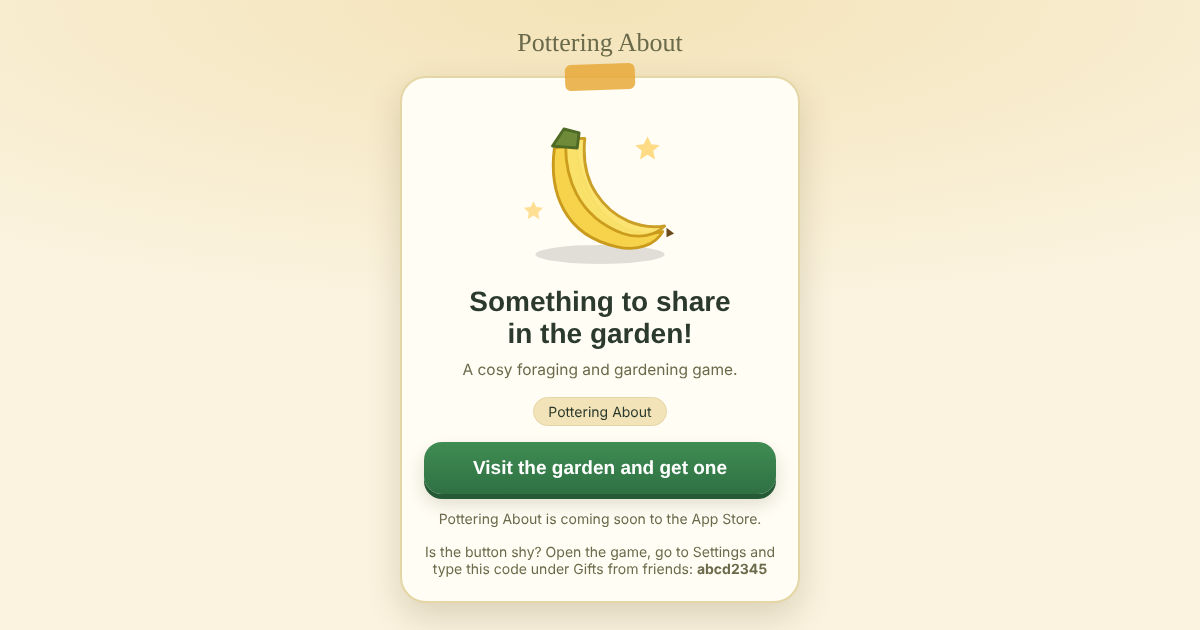
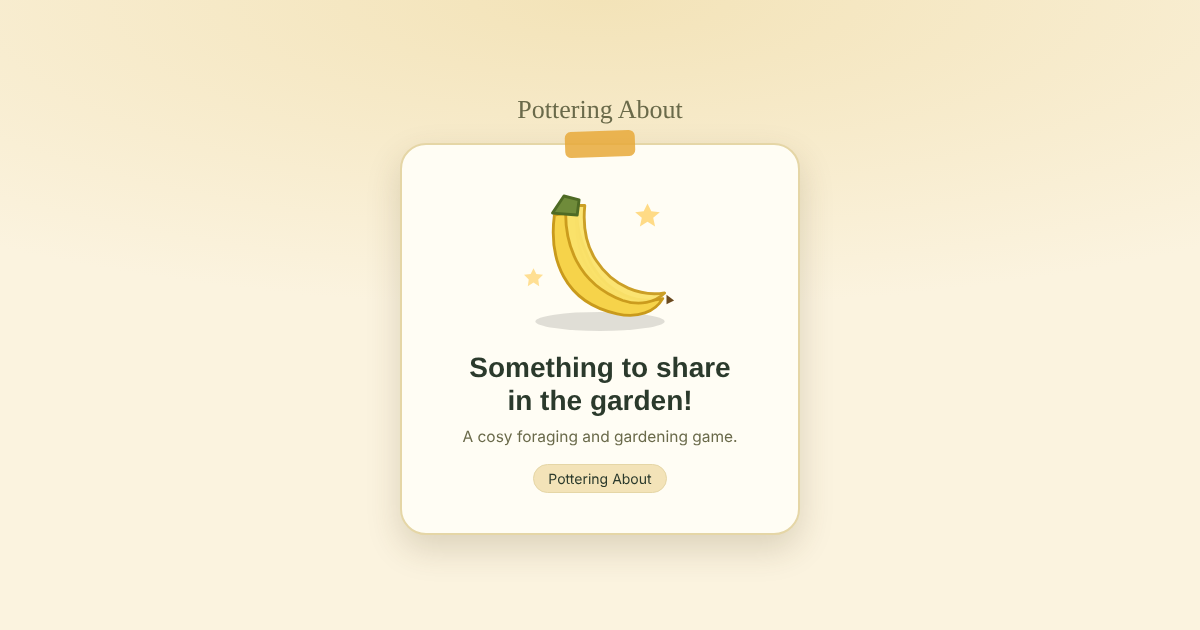
Add files via upload

Changed region(s): [[0.3083, 0.0603, 0.6783, 0.9952]]

diff --git a/gift.js b/gift.js
@@ -1,0 +1,25 @@
+// Builds the gift page with this gift's own preview card, so Facebook, WhatsApp and Reddit show the real item.
+const SB = 'https://sqgfrtgjqowuvvlrhhjp.supabase.co';
+const KEY = 'sb_publishable_LyIEQVIcTaxuAJ1I4THZyg_ZJqxtA-p';
+const TEMPLATE = "<!doctype html>\n<html lang=\"en\"><head><meta charset=\"utf-8\"><meta name=\"viewport\" content=\"width=device-width,initial-scale=1,viewport-fit=cover\">\n<title>A gift from the garden | Pottering About</title>\n<meta name=\"description\" content=\"A friend has something to share in Pottering About, a cosy foraging and gardening game. Tap to pick one up.\">\n<meta property=\"og:title\" content=\"A friend has something to share in Pottering About\"><meta property=\"og:description\" content=\"Tap to visit the garden and pick up a gift.\">\n<meta property=\"og:image\" content=\"https://garden.auridonyarns.com/og.png\"><meta property=\"og:type\" content=\"website\"><meta name=\"twitter:card\" content=\"summary_large_image\">\n<link rel=\"stylesheet\" href=\"https://fonts.googleapis.com/css2?family=Baloo+2:wght@500;700&family=Caveat:wght@600&family=Mali:wght@400;600&display=swap\">\n<style>\n:root{--bg:#fbf3df;--bg2:#f3e3b8;--card:#fffdf4;--ink:#2b3a2c;--sub:#6a6a4a;--leaf:#3f8d53;--leaf2:#2f7043;--gold:#e8a93a;--line:#e5d6a6;--shadow:rgba(80,60,20,.18)}\n@media (prefers-color-scheme:dark){:root:not([data-theme=\"light\"]){--bg:#0e231a;--bg2:#143327;--card:#183a2c;--ink:#fbf3df;--sub:#b9c9a8;--leaf:#5fb374;--leaf2:#3f8d53;--gold:#ffd77a;--line:#2d5a43;--shadow:rgba(0,0,0,.4);color-scheme:dark}}\n:root[data-theme=\"dark\"]{--bg:#0e231a;--bg2:#143327;--card:#183a2c;--ink:#fbf3df;--sub:#b9c9a8;--leaf:#5fb374;--leaf2:#3f8d53;--gold:#ffd77a;--line:#2d5a43;--shadow:rgba(0,0,0,.4);color-scheme:dark}\n*{box-sizing:border-box}\n.cardimg{width:100%;border-radius:14px;display:block;margin:4px 0 10px}\n[hidden]{display:none!important}\nbody{margin:0;min-height:100vh;background:radial-gradient(120% 70% at 50% 0%,var(--bg2),var(--bg) 70%);color:var(--ink);font-family:'Mali',system-ui,sans-serif;padding-block:28px;padding-left:max(16px,env(safe-area-inset-left,0px));padding-right:max(16px,env(safe-area-inset-right,0px));display:flex;flex-direction:column;align-items:center;gap:18px}\n.brand{font-family:'Caveat',cursive;font-size:26px;color:var(--sub)}\n.card{width:100%;max-width:400px;background:var(--card);border:2px solid var(--line);border-radius:26px;box-shadow:0 14px 34px var(--shadow);padding:26px 22px 24px;text-align:center;position:relative}\n.card:before{content:\"\";position:absolute;left:50%;top:-14px;width:70px;height:26px;background:var(--gold);border-radius:6px;transform:translateX(-50%) rotate(-2deg);opacity:.85}\n.pic{margin:6px auto 4px;width:190px;max-width:70%}\nh1{font-family:'Baloo 2',sans-serif;font-weight:700;font-size:28px;line-height:1.15;margin:6px 0 8px;text-wrap:balance}\np{margin:0 0 6px;line-height:1.5;color:var(--sub);font-size:15.5px}\n.count{display:inline-block;margin:10px 0 16px;padding:5px 14px;border-radius:99px;background:var(--bg2);border:1px solid var(--line);font-size:14px;color:var(--ink)}\n.go{display:block;width:100%;border:0;border-radius:18px;padding:15px 18px;font-family:'Baloo 2',sans-serif;font-weight:700;font-size:19px;color:#fff;background:linear-gradient(var(--leaf),var(--leaf2));box-shadow:0 5px 0 #265a36,0 10px 18px var(--shadow);text-decoration:none;cursor:pointer}\n.go:active{transform:translateY(3px);box-shadow:0 2px 0 #265a36}\n.store{display:block;margin-top:16px;font-size:14px;color:var(--sub)}\n.store a{color:var(--leaf2);font-weight:600}\n@media (prefers-color-scheme:dark){:root:not([data-theme=\"light\"]) .store a{color:var(--gold)}}\n.fine{max-width:400px;text-align:center;font-size:12.5px;color:var(--sub);opacity:.85}\n</style></head><body>\n<div class=\"brand\">Pottering About</div>\n<main class=\"card\">\n  <svg class=\"pic\" viewBox=\"0 0 200 170\" role=\"img\" aria-label=\"A bunch of bananas\">\n    <ellipse cx=\"100\" cy=\"152\" rx=\"68\" ry=\"10\" fill=\"#000\" opacity=\".12\"/>\n    <path d=\"M52 40c-6 46 10 92 66 104 22 5 40-2 48-16-26 6-56-4-74-34C80 70 74 52 76 36z\" fill=\"#f6d34a\" stroke=\"#c99a1c\" stroke-width=\"3\" stroke-linejoin=\"round\"/>\n    <path d=\"M76 36c-4 40 10 78 56 96\" fill=\"none\" stroke=\"#e1b42b\" stroke-width=\"3\" stroke-linecap=\"round\"/>\n    <path d=\"M64 30c-2 40 12 82 60 100 18 6 34 2 44-8-24 4-54-6-72-34-12-18-14-38-12-58z\" fill=\"#fbe36c\" stroke=\"#c99a1c\" stroke-width=\"3\" stroke-linejoin=\"round\" opacity=\".95\"/>\n    <path d=\"M50 38l12-18 16 4-2 16z\" fill=\"#6f8b3a\" stroke=\"#4e6a24\" stroke-width=\"3\" stroke-linejoin=\"round\"/>\n    <path d=\"M170 124l8 6-8 4z\" fill=\"#6b4a1e\"/>\n    <path d=\"M150 28l4 8 9 1-7 6 2 9-8-5-8 5 2-9-7-6 9-1z\" fill=\"#ffd77a\" opacity=\".9\"/>\n    <path d=\"M30 96l3 6 7 1-5 5 1 7-6-4-6 4 1-7-5-5 7-1z\" fill=\"#ffd77a\" opacity=\".8\"/>\n  </svg>\n  <h1 id=\"h\">A gift from the garden</h1>\n  <p id=\"p\">A friend has something to share. Come and see their garden.</p>\n  <div class=\"count\" id=\"c\">Checking the basket...</div>\n  <a class=\"go\" id=\"go\" href=\"potteringabout://gift\">Visit the garden</a>\n  <span class=\"store\" id=\"store\"></span>\n  <span class=\"store\">Is the button shy? Open the game, go to Settings and type this code under Gifts from friends: <b id=\"code\">-</b></span>\n</main>\n<div class=\"fine\">A cosy foraging and gardening game by Auridon Yarns. One gift per gardener, while the basket lasts.</div>\n<script>\nvar SB_URL='https://sqgfrtgjqowuvvlrhhjp.supabase.co', SB_KEY='sb_publishable_LyIEQVIcTaxuAJ1I4THZyg_ZJqxtA-p';\nvar APP_STORE_URL=''; // fill in once the app is public on the App Store\nvar code=((/[?&]g=([a-z0-9]{6,12})/i.exec(location.search)||[])[1]||'').toLowerCase();\nvar $=function(i){return document.getElementById(i)};\nfunction t(e,s){e.textContent=s}\nif(APP_STORE_URL){$('store').innerHTML='Do not have the game yet? <a href=\"'+APP_STORE_URL+'\">Get it free on the App Store</a>'}else{t($('store'),'Pottering About is coming soon to the App Store.')}\nif(!code){t($('h'),'Pottering About');t($('p'),'A cosy foraging and gardening game. Ask a friend for a gift link.');$('c').hidden=true;$('go').hidden=true;document.querySelector('.store:last-child').hidden=true}\nelse{\n  t($('code'),code);$('go').href='potteringabout://gift?g='+code;\n  var im=new Image();im.alt='';im.className='cardimg';im.onload=function(){var v=document.querySelector('svg.pic');if(v)v.replaceWith(im)};im.src=SB_URL+'/storage/v1/object/public/gift-img/'+code+'.jpg';\n  fetch(SB_URL+'/rest/v1/rpc/pa_gift_get',{method:'POST',headers:{apikey:SB_KEY,Authorization:'Bearer '+SB_KEY,'Content-Type':'application/json'},body:JSON.stringify({p_code:code})})\n   .then(function(r){return r.json()}).then(function(g){\n     if(!g){t($('h'),'This gift has gone stale');t($('p'),'The link does not seem to exist any more.');$('c').hidden=true;$('go').hidden=true;return}\n     var item=String(g.item).toLowerCase(), n=+g.left||0, nm=String(g.name);\n     t($('h'),nm+' has something to share!');t($('p'),'Come and visit '+nm+'\\'s garden and pick up a gift: '+item+'.');\n     t($('c'),n>0?n+(n===1?' left':' left')+' in the basket':'The basket is empty, sorry!');\n     t($('go'),n>0?'Visit the garden and get one':'Visit the garden anyway');\n   }).catch(function(){t($('c'),'Could not check the basket right now')});\n}\n$('go').addEventListener('click',function(){\n  if(!APP_STORE_URL)return; var gone=false; document.addEventListener('visibilitychange',function(){gone=true});\n  setTimeout(function(){if(!gone&&!document.hidden)location.href=APP_STORE_URL},1600);\n});\n</script></body></html>\n";
+const esc = (s) => String(s).replace(/[&<>"']/g, (c) => ({ '&': '&amp;', '<': '&lt;', '>': '&gt;', '"': '&quot;', "'": '&#39;' }[c]));
+exports.handler = async (event) => {
+  const code = String((event.queryStringParameters || {}).g || '').toLowerCase().replace(/[^a-z0-9]/g, '').slice(0, 12);
+  let html = TEMPLATE;
+  if (code.length >= 6) {
+    try {
+      const r = await fetch(SB + '/rest/v1/rpc/pa_gift_get', { method: 'POST', headers: { apikey: KEY, Authorization: 'Bearer ' + KEY, 'Content-Type': 'application/json' }, body: JSON.stringify({ p_code: code }) });
+      const g = await r.json();
+      if (g && g.item) {
+        const title = g.name + ' is sharing ' + g.item + ' in Pottering About!';
+        const img = SB + '/storage/v1/object/public/gift-img/' + code + '.jpg';
+        html = html
+          .replace(/(<meta property="og:title" content=")[^"]*"/, '$1' + esc(title) + '"')
+          .replace(/(<meta property="og:description" content=")[^"]*"/, '$1' + esc('Tap to visit the garden and pick up a gift.') + '"')
+          .replace(/(<meta property="og:image" content=")[^"]*"/, '$1' + img + '"')
+          .replace(/<title>[^<]*<\/title>/, '<title>' + esc(title) + '</title>');
+      }
+    } catch (e) { /* fall back to the generic page */ }
+  }
+  return { statusCode: 200, headers: { 'Content-Type': 'text/html; charset=utf-8', 'Cache-Control': 'public, max-age=120' }, body: html };
+};

diff --git a/index.html b/index.html
@@ -10,6 +10,8 @@
 @media (prefers-color-scheme:dark){:root:not([data-theme="light"]){--bg:#0e231a;--bg2:#143327;--card:#183a2c;--ink:#fbf3df;--sub:#b9c9a8;--leaf:#5fb374;--leaf2:#3f8d53;--gold:#ffd77a;--line:#2d5a43;--shadow:rgba(0,0,0,.4);color-scheme:dark}}
 :root[data-theme="dark"]{--bg:#0e231a;--bg2:#143327;--card:#183a2c;--ink:#fbf3df;--sub:#b9c9a8;--leaf:#5fb374;--leaf2:#3f8d53;--gold:#ffd77a;--line:#2d5a43;--shadow:rgba(0,0,0,.4);color-scheme:dark}
 *{box-sizing:border-box}
+.cardimg{width:100%;border-radius:14px;display:block;margin:4px 0 10px}
+[hidden]{display:none!important}
 body{margin:0;min-height:100vh;background:radial-gradient(120% 70% at 50% 0%,var(--bg2),var(--bg) 70%);color:var(--ink);font-family:'Mali',system-ui,sans-serif;padding-block:28px;padding-left:max(16px,env(safe-area-inset-left,0px));padding-right:max(16px,env(safe-area-inset-right,0px));display:flex;flex-direction:column;align-items:center;gap:18px}
 .brand{font-family:'Caveat',cursive;font-size:26px;color:var(--sub)}
 .card{width:100%;max-width:400px;background:var(--card);border:2px solid var(--line);border-radius:26px;box-shadow:0 14px 34px var(--shadow);padding:26px 22px 24px;text-align:center;position:relative}
@@ -55,6 +57,7 @@ if(APP_STORE_URL){$('store').innerHTML='Do not have the game yet? <a href="'+APP
 if(!code){t($('h'),'Pottering About');t($('p'),'A cosy foraging and gardening game. Ask a friend for a gift link.');$('c').hidden=true;$('go').hidden=true;document.querySelector('.store:last-child').hidden=true}
 else{
   t($('code'),code);$('go').href='potteringabout://gift?g='+code;
+  var im=new Image();im.alt='';im.className='cardimg';im.onload=function(){var v=document.querySelector('svg.pic');if(v)v.replaceWith(im)};im.src=SB_URL+'/storage/v1/object/public/gift-img/'+code+'.jpg';
   fetch(SB_URL+'/rest/v1/rpc/pa_gift_get',{method:'POST',headers:{apikey:SB_KEY,Authorization:'Bearer '+SB_KEY,'Content-Type':'application/json'},body:JSON.stringify({p_code:code})})
    .then(function(r){return r.json()}).then(function(g){
      if(!g){t($('h'),'This gift has gone stale');t($('p'),'The link does not seem to exist any more.');$('c').hidden=true;$('go').hidden=true;return}
